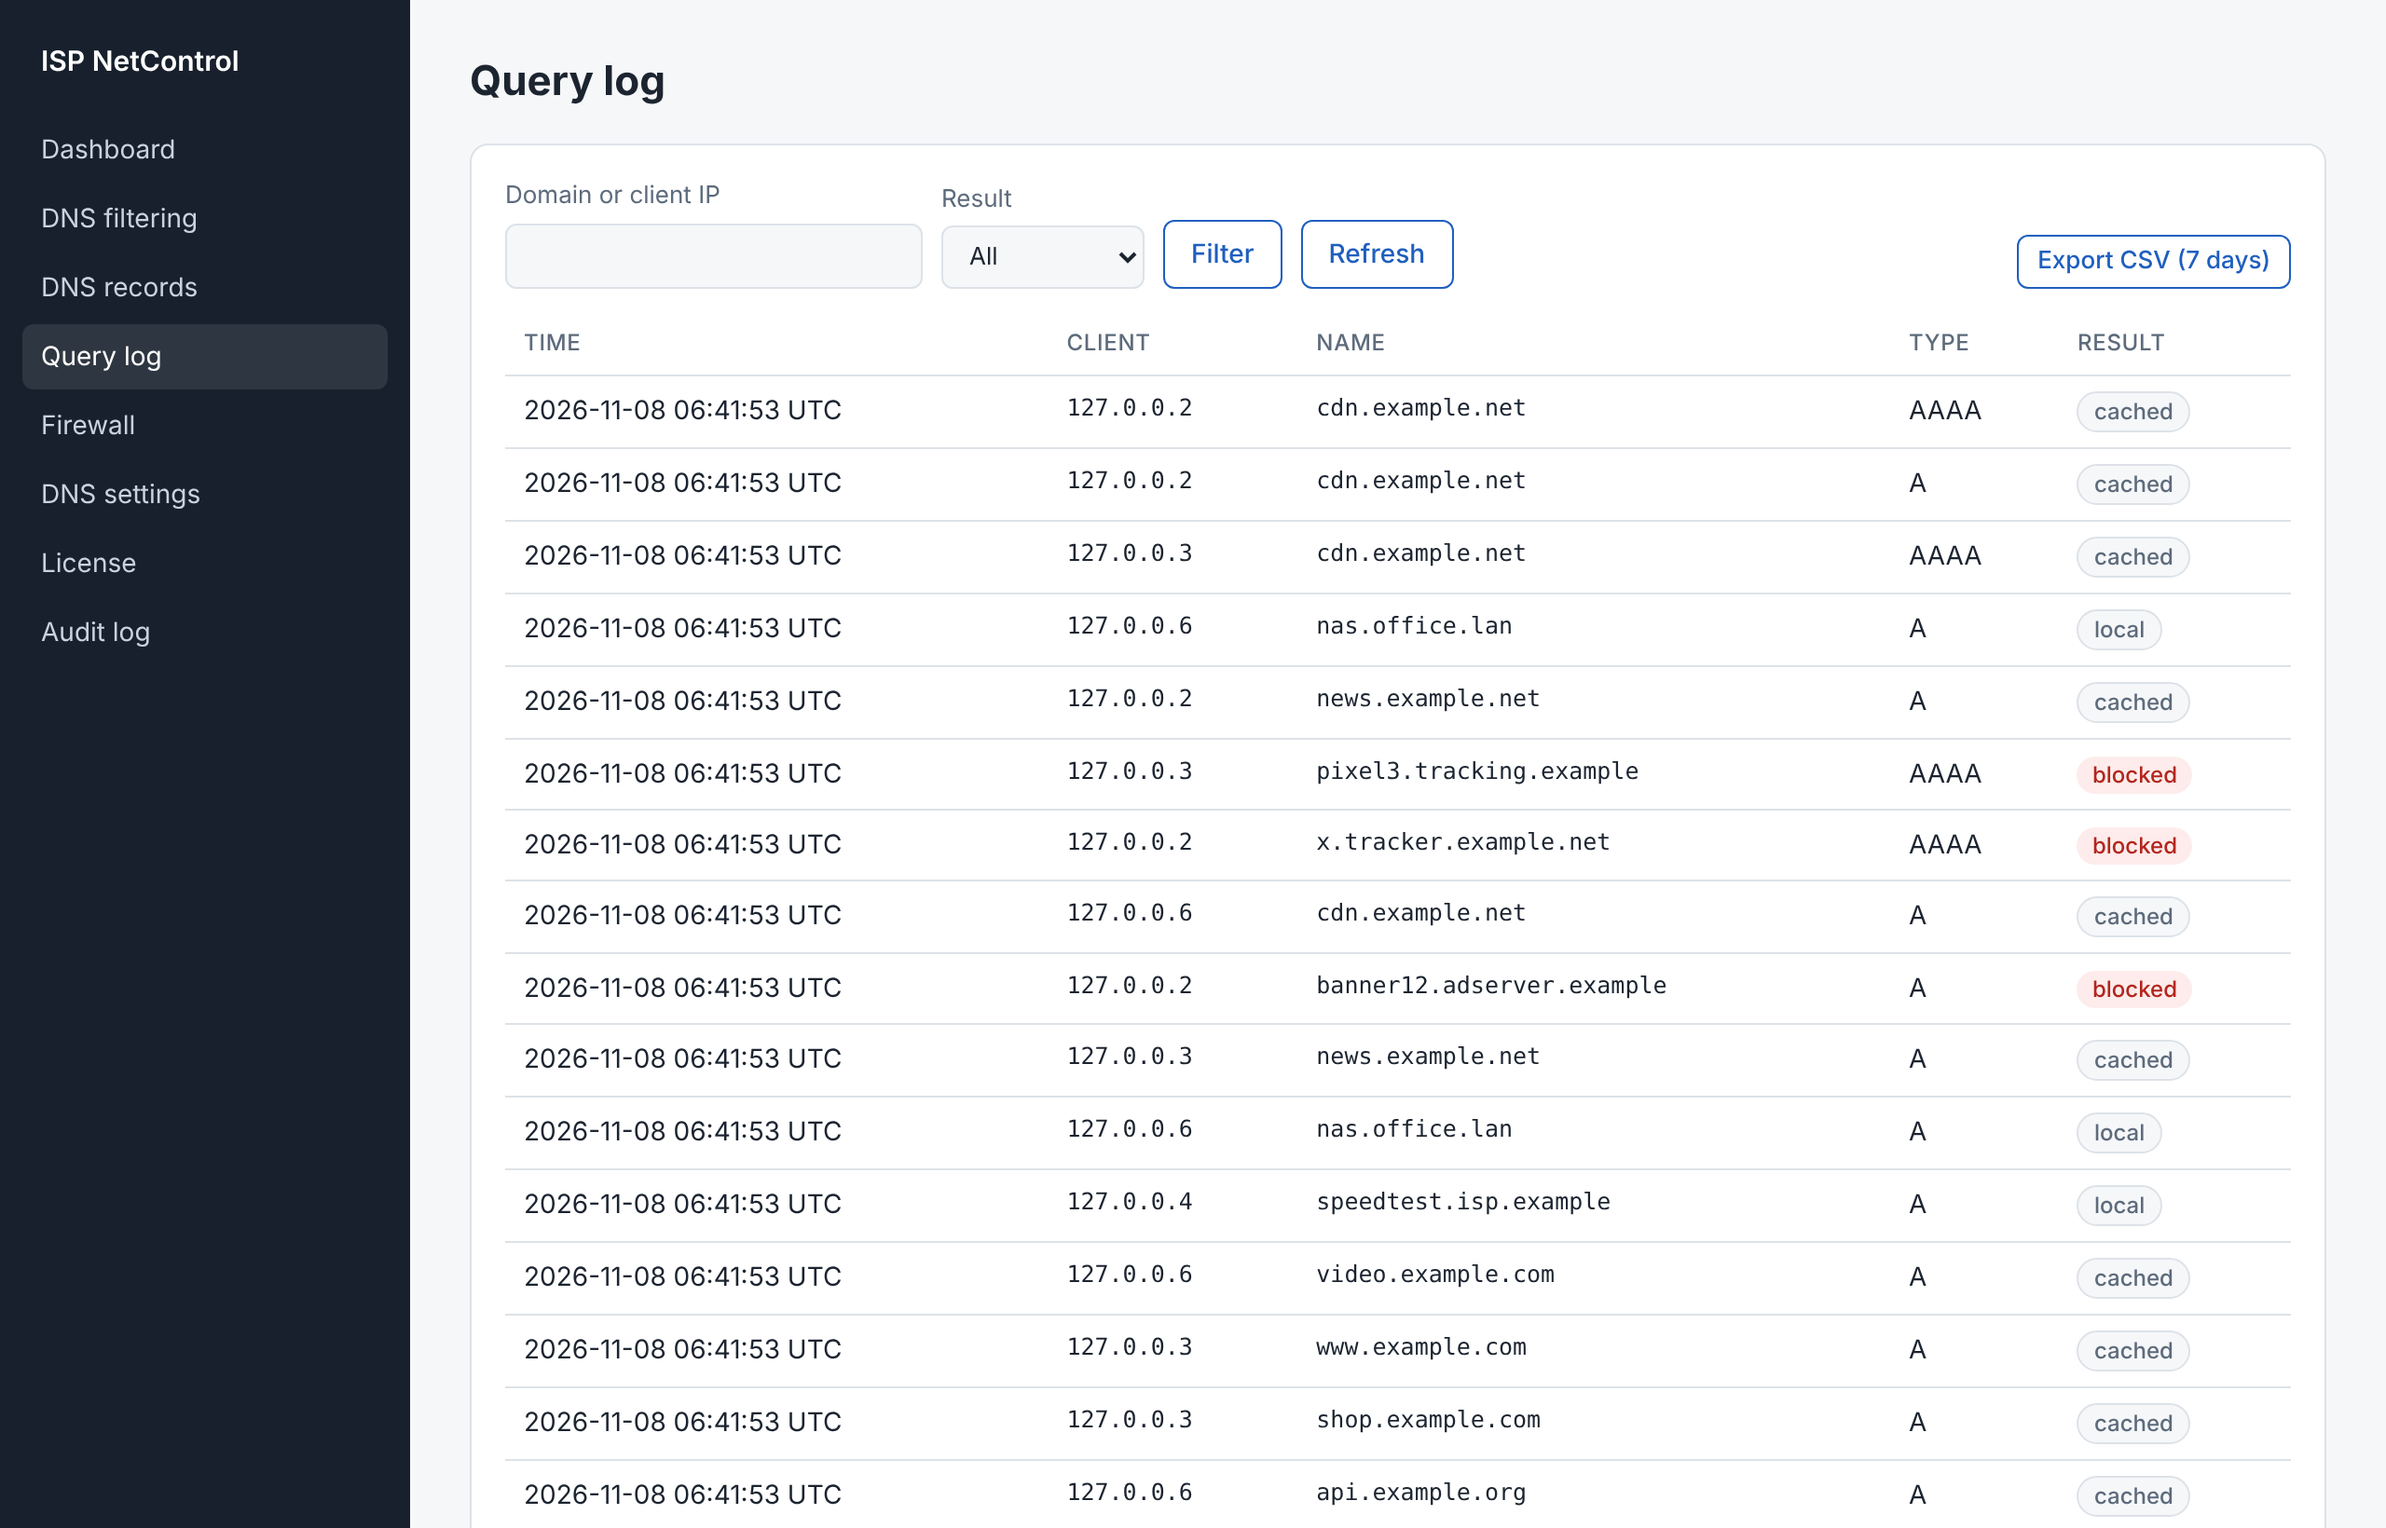
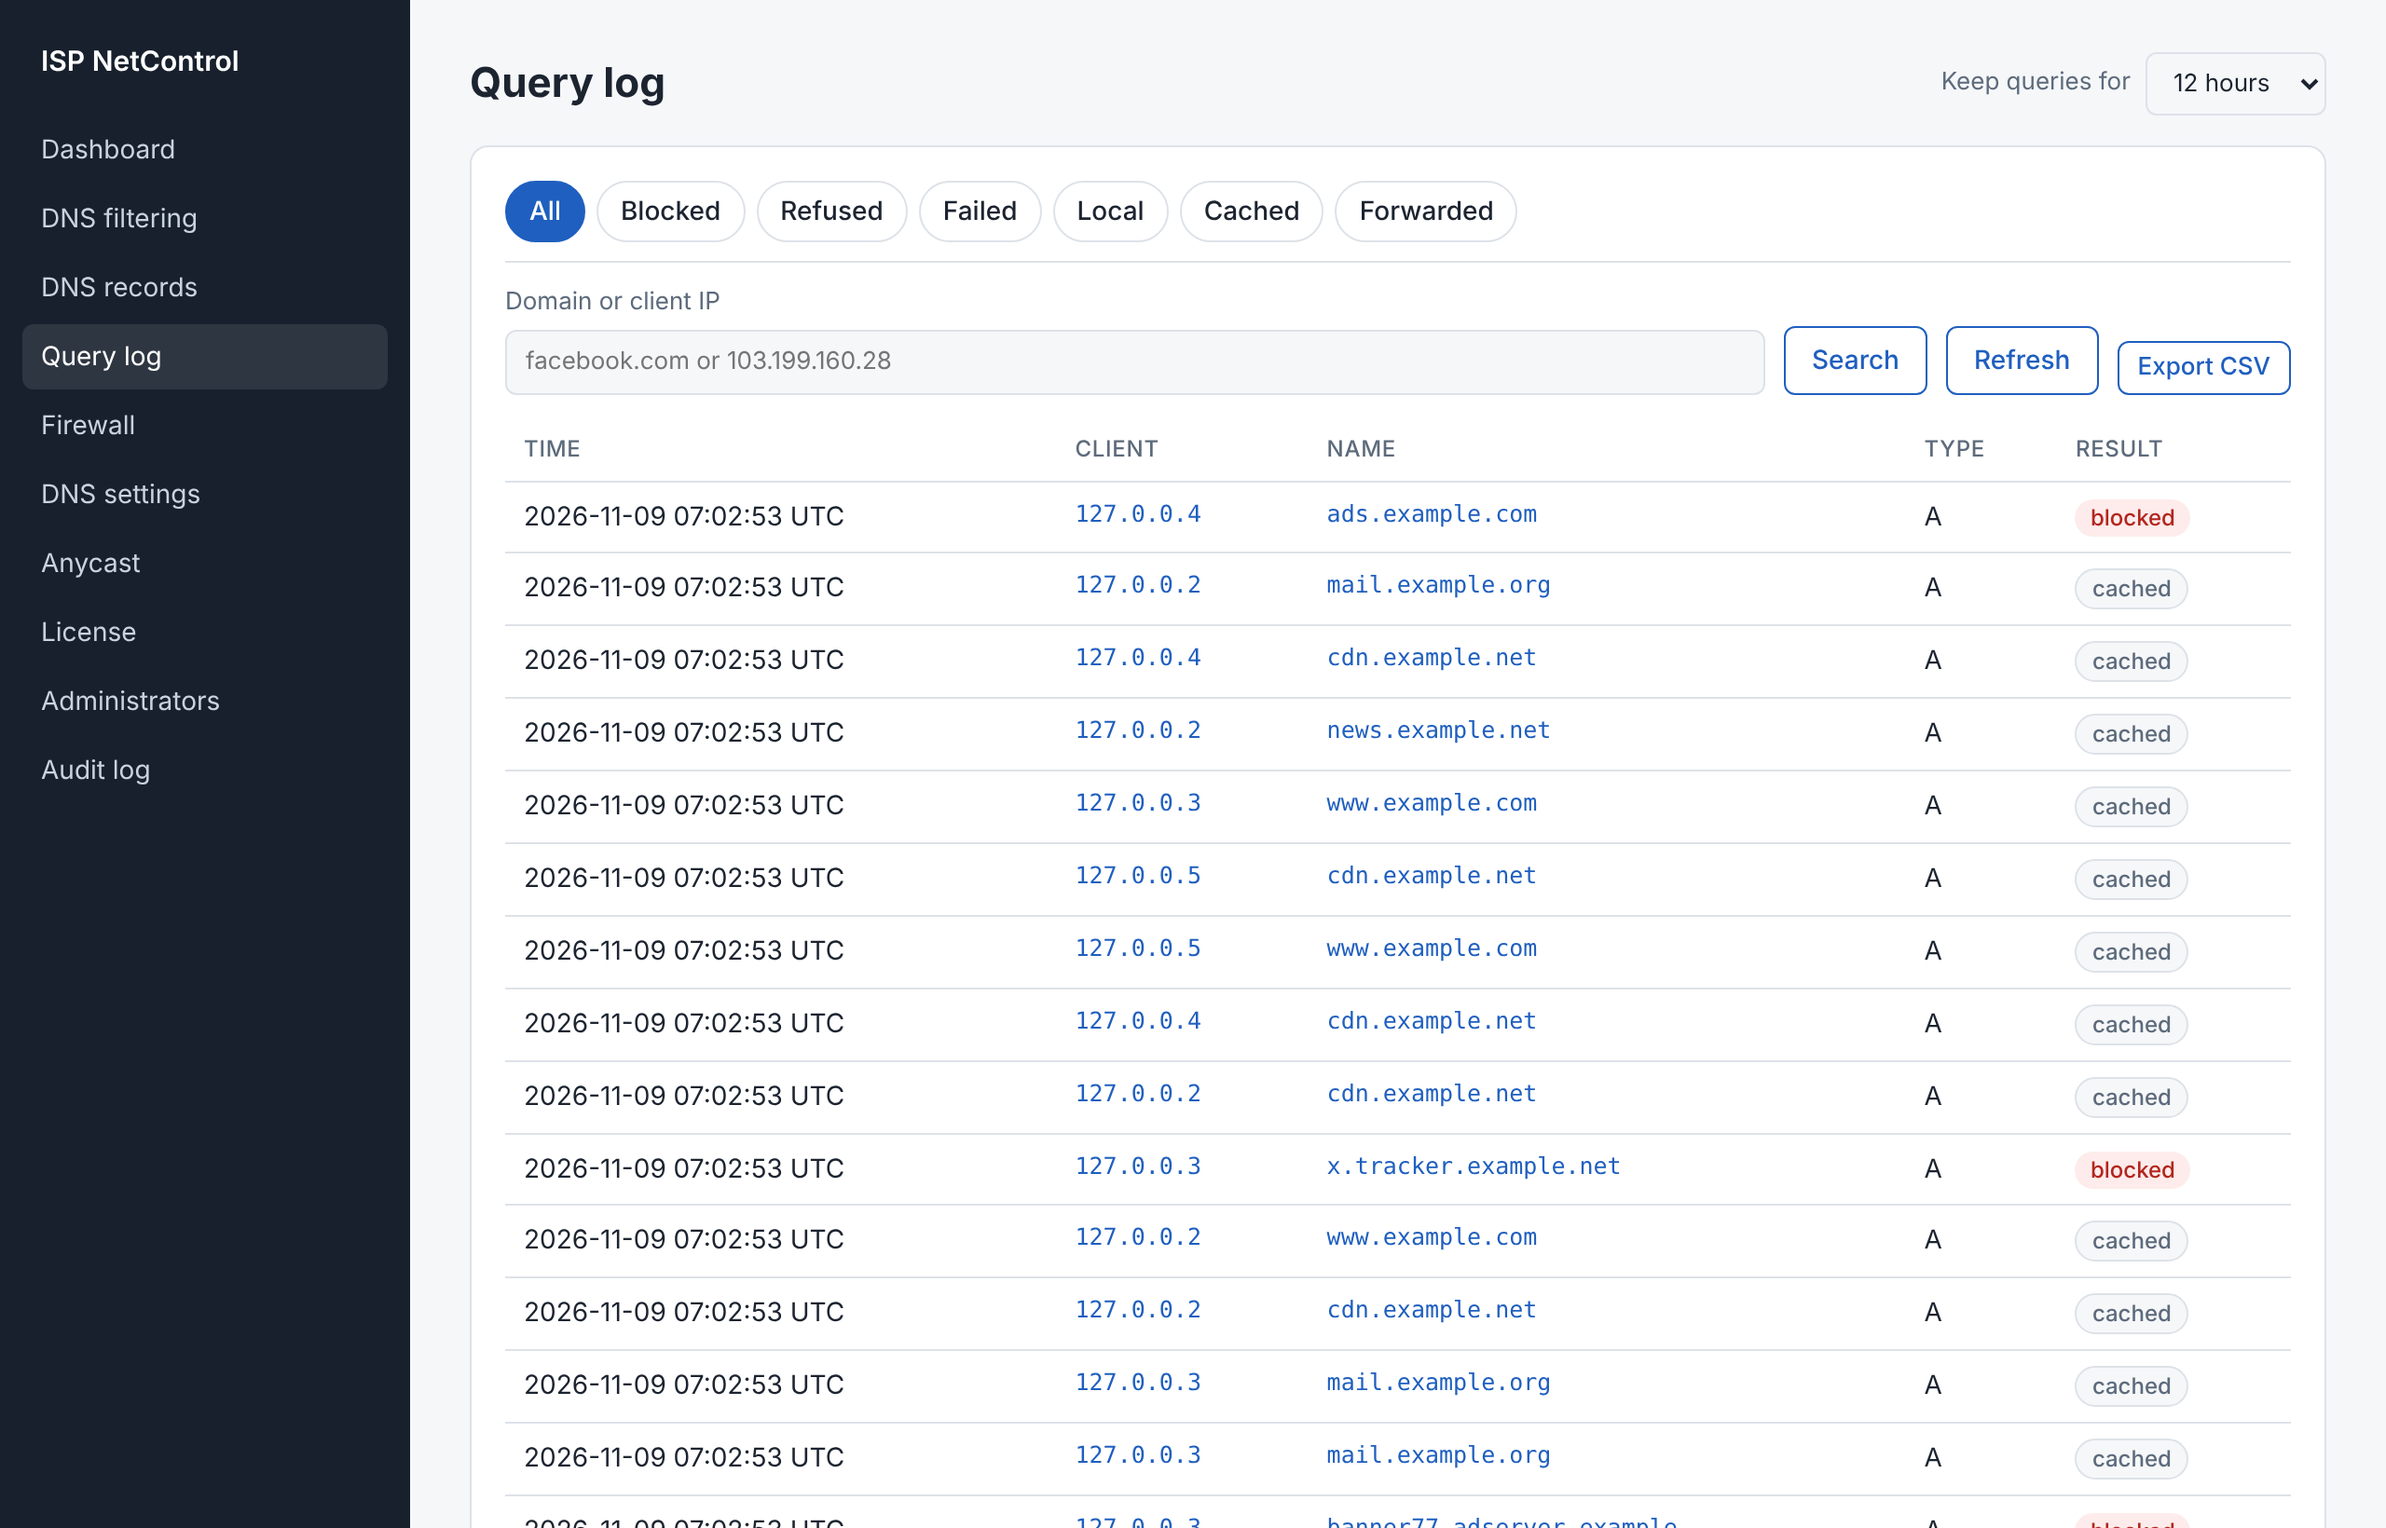
Release v1.2.0: anycast, listen interfaces, query log paging
Documentation for anycast with FRR, administrator recovery, query log
retention and listen addresses; new screenshots; null-list fix in the
listen settings API (crashed the panel before any setting was saved).

Claude-Session: https://claude.ai/code/session_01QVtrS9BhTjUtXw1Kf4Re4W

diff --git a/isp-netcontrol/web/components/ListenPanel.tsx b/isp-netcontrol/web/components/ListenPanel.tsx
@@ -17,7 +17,9 @@ export default function ListenPanel() {
   const act = useAction();
   const [s, setS] = useState<Settings | null>(null);
   const [showInternal, setShowInternal] = useState(false);
-  useEffect(() => { if (data) setS(data.settings); }, [data]);
+  useEffect(() => {
+    if (data) setS({ ...data.settings, interfaces: data.settings.interfaces ?? [], addresses: data.settings.addresses ?? [] });
+  }, [data]);
   if (!data || !s) return <div className="panel"><h2>Listen on</h2><Alert kind="error">{error}</Alert></div>;
 
   const toggleIface = (n: string) => setS({ ...s, interfaces: s.interfaces.includes(n) ? s.interfaces.filter((x) => x !== n) : [...s.interfaces, n] });

diff --git a/isp-netcontrol/internal/nc/app_integration_test.go b/isp-netcontrol/internal/nc/app_integration_test.go
@@ -466,3 +466,11 @@ func TestIntegrationAdminsAndRecovery(t *testing.T) {
 func authkitResetPassword(ctx context.Context, e *testEnv, email string) (string, error) {
 	return authkit.ResetPassword(ctx, e.app.db, email)
 }
+
+func TestIntegrationListenDefaultsAreLists(t *testing.T) {
+	e := newTestEnv(t)
+	raw := string(e.raw("GET", "/api/dns/listen", nil, 200))
+	if !strings.Contains(raw, `"interfaces":[]`) || !strings.Contains(raw, `"addresses":[]`) || strings.Contains(raw, `"interfaces":null`) {
+		t.Fatalf("unsaved listen settings must use empty lists: %s", raw[:200])
+	}
+}

diff --git a/isp-netcontrol/internal/nc/listen.go b/isp-netcontrol/internal/nc/listen.go
@@ -160,6 +160,12 @@ func (a *App) getListen(c *fiber.Ctx) error {
 	if !saved {
 		s = ListenSettings{Mode: "all", Port: 53}
 	}
+	if s.Interfaces == nil {
+		s.Interfaces = []string{}
+	}
+	if s.Addresses == nil {
+		s.Addresses = []string{}
+	}
 	return c.JSON(fiber.Map{"settings": s, "saved": saved, "active": a.dns.Addrs(), "env_default": a.cfg.DNSListen, "interfaces": ifs})
 }
 

diff --git a/README.md b/README.md
@@ -11,6 +11,11 @@ Internet service providers:
   hosts, overrides and reverse lookups.
 - A dashboard with a queries-over-time graph (total, blocked, refused,
   failed) for 1 hour to 30 days, and the top blocked domains and clients.
+- Choose which interfaces and IP addresses DNS listens on, applied live.
+- Anycast support: health checks withdraw this server's anycast routes
+  (iBGP, OSPF, IS-IS via FRR) when DNS fails, and announce them on recovery.
+- Several administrators, and a recovery command for lost passwords or
+  authenticators.
 - Firewall management through its own nftables table (`inet isp_netcontrol`);
   the server's existing firewall rules are never changed.
 - A web console with mandatory two-factor authentication, CSRF protection,
@@ -58,10 +63,32 @@ Local A, AAAA, CNAME, TXT, MX and PTR records, answered before filtering.
 ![DNS records](docs/screenshots/10-dns-records.png)
 
 ### Query log
-Every query with its client, type and result (forwarded, cached, local,
-blocked, refused, failed), with CSV export.
+Every query with its client, type and result, in pages of 25 to 200 rows,
+with tabs for blocked, refused and failed queries, CSV export, and a
+retention setting (for example 12 hours) after which entries are deleted.
 
 ![Query log](docs/screenshots/05-query-log.png)
+
+### Listen on
+Serve DNS on all addresses, or only on chosen interfaces (e.g. `ens33`,
+`anycast0`) or single IPs. Applied live; new addresses on a chosen
+interface are picked up within a minute.
+
+![Listen on](docs/screenshots/13-listen.png)
+
+### Anycast
+Health-based route control for anycast DNS with FRR. When DNS fails a
+number of checks in a row, the anycast interface is taken down so FRR
+withdraws the routes; it comes back up when DNS recovers. Maintenance
+mode, force announce and a monitor-only mode. See [docs/ANYCAST.md](docs/ANYCAST.md).
+
+![Anycast](docs/screenshots/14-anycast.png)
+
+### Administrators
+Each NOC engineer gets their own account with mandatory two-factor
+authentication.
+
+![Administrators](docs/screenshots/15-admins.png)
 
 ### Firewall
 Networks blocked by source, destination or both, and the nftables ruleset
@@ -96,6 +123,7 @@ Every sign-in and administrative change.
 - [Installation](docs/INSTALL.md)
 - [How licensing works and its limits](docs/LICENSING.md)
 - [Operations: backups, upgrades, troubleshooting](docs/OPERATIONS.md)
+- [Anycast with FRR (iBGP, OSPF, IS-IS)](docs/ANYCAST.md)
 - [Architecture and security design](docs/ARCHITECTURE.md)
 - [Changelog](CHANGELOG.md)
 

diff --git a/docs/OPERATIONS.md b/docs/OPERATIONS.md
@@ -65,6 +65,42 @@ Query counters are stored per minute in the database and kept for 30 days,
 so the dashboard graph survives restarts. The top lists come from the query
 log (7 days by default, `NC_QUERY_LOG_DAYS`) and need the query-log feature.
 
+## Administrators and recovery
+
+Add NOC staff under **Administrators**. If someone is locked out or has lost
+their authenticator, run on the server:
+
+```bash
+sudo docker compose -f /opt/isp-netcontrol/src/isp-netcontrol/deploy/docker-compose.yml exec api isp-netcontrol admin list
+```
+
+```bash
+sudo docker compose -f /opt/isp-netcontrol/src/isp-netcontrol/deploy/docker-compose.yml exec api isp-netcontrol admin reset-password noc@your-isp.example
+```
+
+`reset-password` prints a temporary password that must be changed at the
+next sign-in; `reset-2fa` removes two-factor authentication so it is set up
+again. Both end the user's sessions and are recorded in the audit log.
+
+## Query log retention
+
+**Query log → Keep queries for** sets how long queries are kept (1 hour to
+90 days). Older entries are deleted every 10 minutes. On a busy resolver a
+short retention such as 12 hours keeps the database small.
+
+## Listen addresses
+
+**DNS settings → Listen on** chooses all addresses or specific interfaces
+and IPs. A change is applied immediately; if an address cannot be used the
+previous addresses stay active. If a chosen address disappears while the
+server is stopped, it starts on `NC_DNS_LISTEN` from the installer instead,
+so DNS keeps answering.
+
+## Anycast
+
+See [ANYCAST.md](ANYCAST.md). Before maintenance on an anycast server, set
+**Anycast → Maintenance (withdraw)**, and set it back to **Auto** afterwards.
+
 ## Logs and health
 
 ```bash

diff --git a/CHANGELOG.md b/CHANGELOG.md
@@ -1,5 +1,27 @@
 # Changelog
 
+## v1.2.0 (2026-11-09)
+
+### New
+- **Anycast health control** for iBGP, OSPF and IS-IS (via FRR): the
+  anycast interface is taken down after repeated failed DNS health checks
+  (routes withdrawn) and brought up after recovery. Auto, maintenance and
+  force-announce modes, monitor-only mode, safety guards (never the
+  default-route interface), withdrawal on clean shutdown, events in the
+  console and audit log. Guide: docs/ANYCAST.md.
+- **Choose DNS listen interfaces and addresses** in DNS settings, applied
+  live with rollback; new addresses on chosen interfaces are picked up.
+- **Query log paging** (25-200 rows, page numbers) with result tabs
+  (Blocked, Refused, Failed, ...); dashboard top lists link to the queries.
+- **Query log retention** set in the console (1 hour to 90 days).
+- **Administrators page** and `isp-netcontrol admin list | reset-password |
+  reset-2fa` for recovery.
+
+### Fixed
+- The DNS server now always releases sockets when a rebind partly fails.
+- The installer restarts Docker after freeing port 53 (v1.1.x installs
+  could fail with "lookup registry-1.docker.io on 127.0.0.53:53").
+
 ## v1.1.0 (2026-11-08)
 
 ### New
